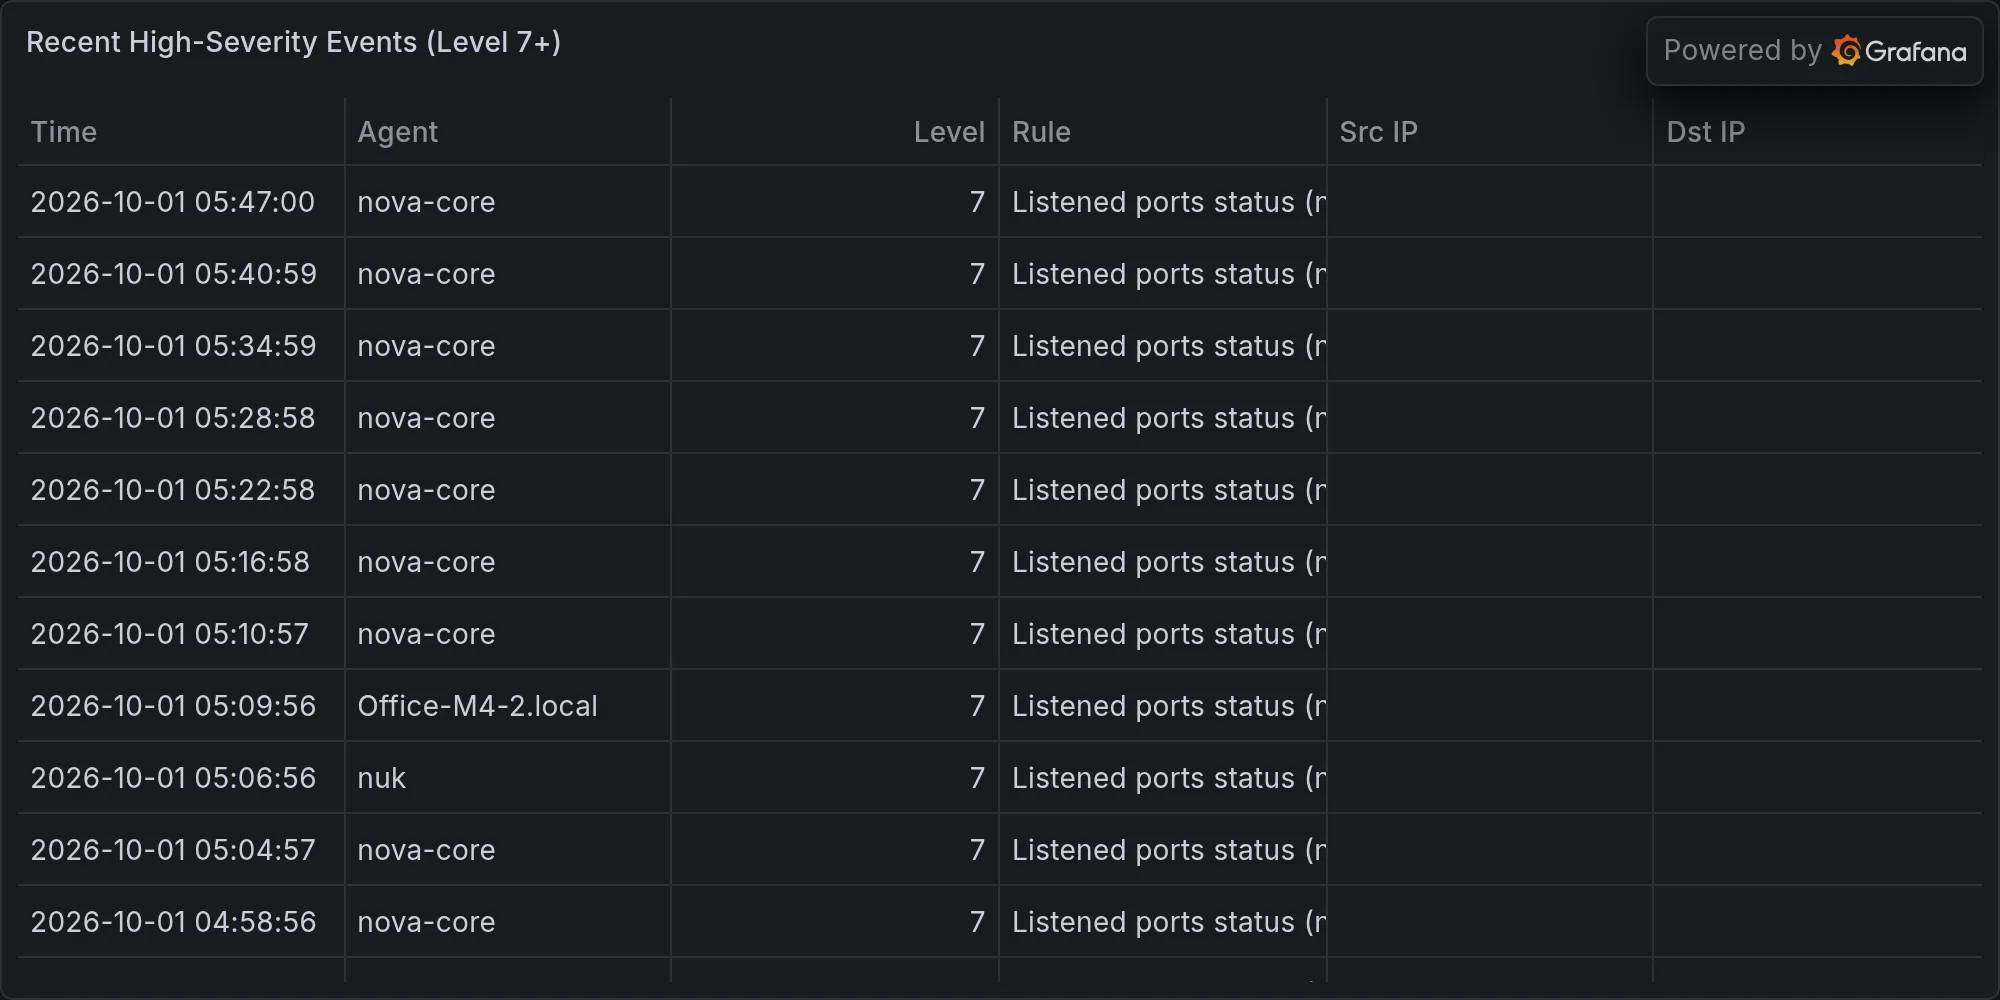
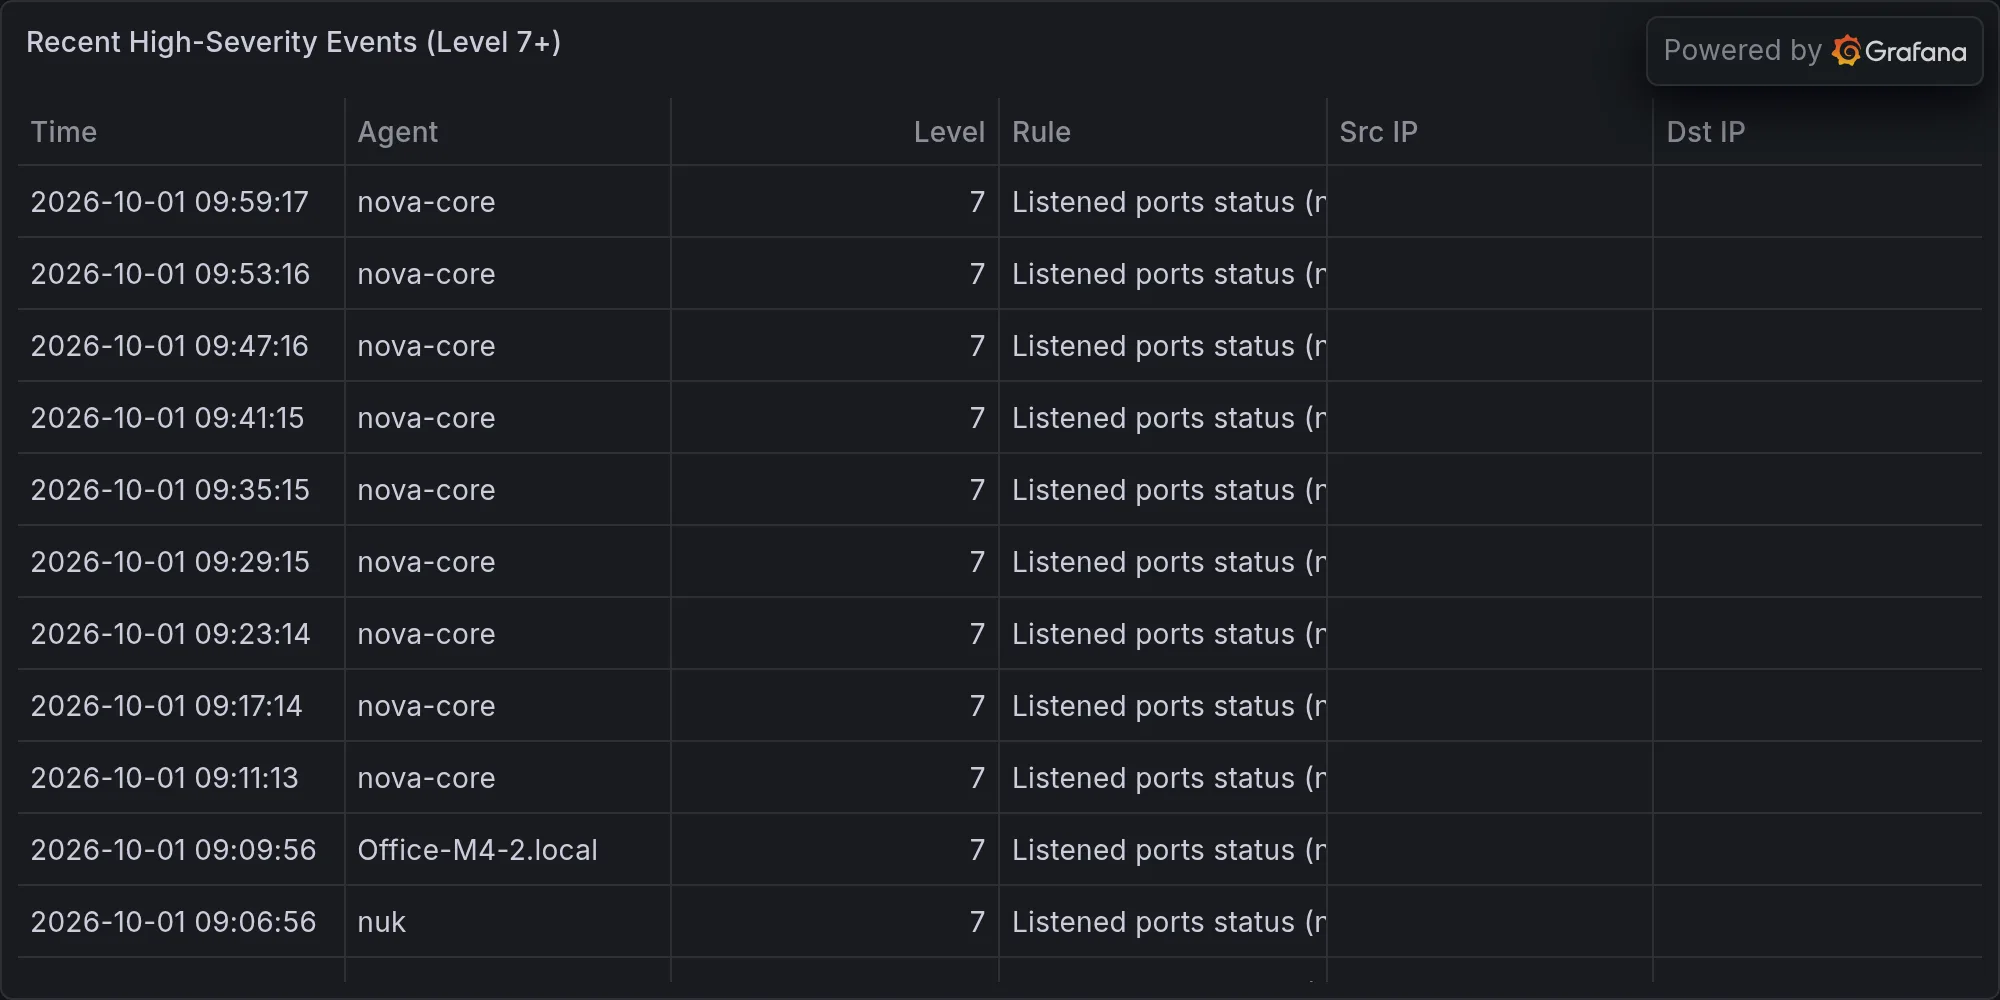
security: 2026-10-01 — **iOS 27.0.1 and iPadOS 27.0.1 Security Update Rel

diff --git a/content/operations/2026-10-01-ios-27-0-1-and-ipados-27-0-1-security-update-released.md b/content/operations/2026-10-01-ios-27-0-1-and-ipados-27-0-1-security-update-released.md
@@ -1,0 +1,46 @@
+---
+title: "🛡 **iOS 27.0.1 and iPadOS 27.0.1 Security Update Released**"
+date: 2026-10-01T10:00:44-07:00
+draft: false
+categories: ["operations"]
+tags: ["breaking-alert", "apple-security-update-ios-27-0-1-and-ipa", "security"]
+description: "BREAKING: Apple Security Update: iOS 27.0.1 and iPadOS 27.0.1"
+cover:
+  image: "/images/operations/2026-10-01-ios-27-0-1-and-ipados-27-0-1-security-update-released.webp"
+  alt: "**iOS 27.0.1 and iPadOS 27.0.1 Security Update Released**"
+  relative: false
+---
+
+*Published Thursday, October 01, 2026 at 10:00 AM PT*
+
+![**iOS 27.0.1 and iPadOS 27.0.1 Security Update Released**](/images/operations/2026-10-01-ios-27-0-1-and-ipados-27-0-1-security-update-released.webp)
+
+BLUF: Apple has released iOS 27.0.1 and iPadOS 27.0.1 security updates effective immediately. All iOS and iPadOS devices should update without delay. Specific CVE details and severity ratings are documented in Apple's official advisory at support.apple.com/en-us/100100.
+
+DETAILS:
+- iOS 27.0.1 and iPadOS 27.0.1 released as point-update security patches
+- Update resolves vulnerabilities from the broader iOS 27 release cycle, which patched 200+ vulnerabilities including WebKit and core framework issues
+- Apple has accelerated security update cadence in response to AI-powered attack vectors
+- Release follows Apple's pattern of frequent patches across iOS, iPadOS, and macOS in recent months (iOS 26.7.1, 26.5, 26.5.2, and now 27.0.1)
+
+IMPACT:
+- **Affected:** All devices running iOS or iPadOS versions prior to 27.0.1 (iPhone, iPad, iPod Touch globally)
+- **Scope:** Universal — this is a security update, not a feature release; all users are advised to update
+- **Risk:** Unpatched devices remain exposed to vulnerabilities documented in Apple's security advisory
+
+RECOMMENDED ACTIONS:
+- **Immediate:** Deploy iOS 27.0.1 and iPadOS 27.0.1 to all managed and personal devices
+- **Verify:** Settings > General > Software Update to check availability
+- **Prioritize:** Production devices and security-sensitive endpoints first
+- **Reference:** Review specific CVEs at https://support.apple.com/en-us/100100 to assess impact for your environment
+
+SOURCES:
+- Apple iOS 27.0.1 and iPadOS 27.0.1 release (October 2026)
+- Apple security advisory (support.apple.com/en-us/100100)
+- Historical context: iOS 27 major version patched 200+ vulnerabilities; WebKit and system framework hardening ongoing
+
+---
+
+**Recent high-severity events at publish time:**
+
+![Recent high-severity events](/images/operations/2026-10-01-breaking-alert-posture.webp)
